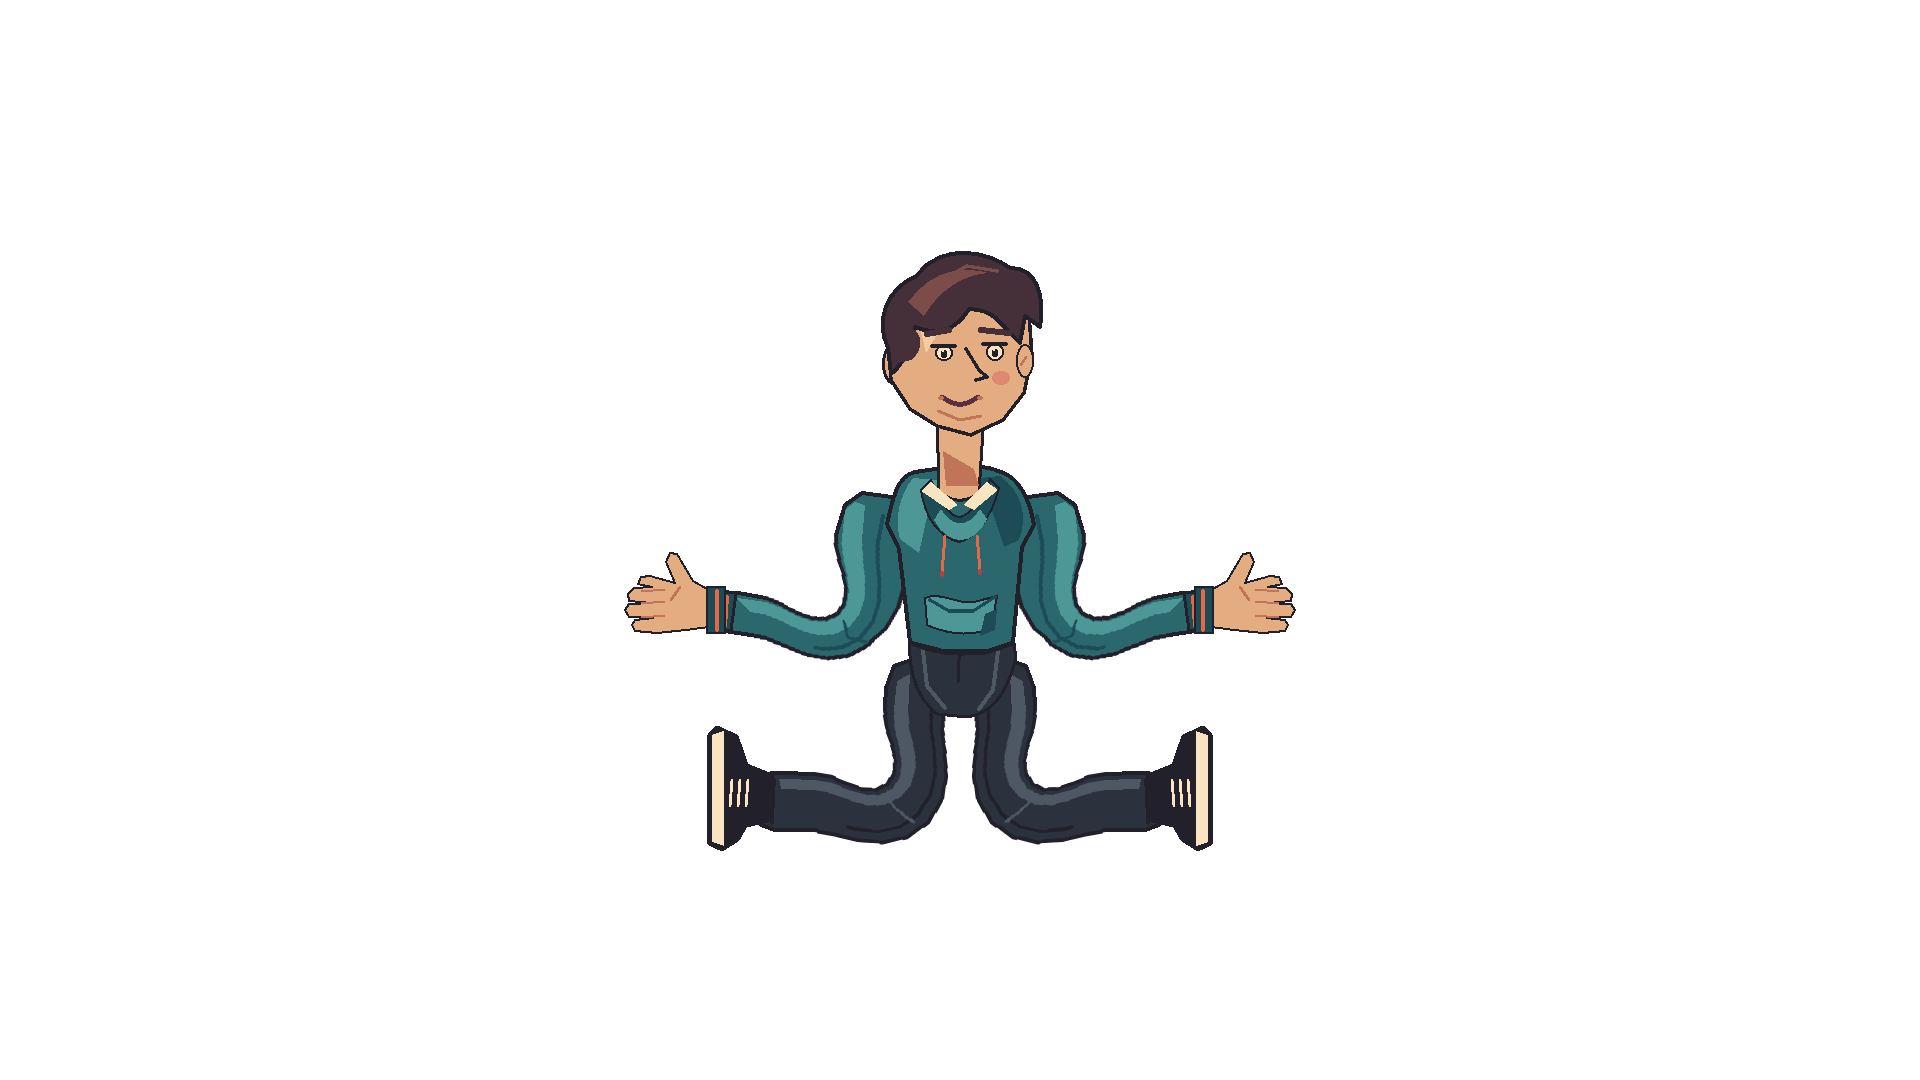
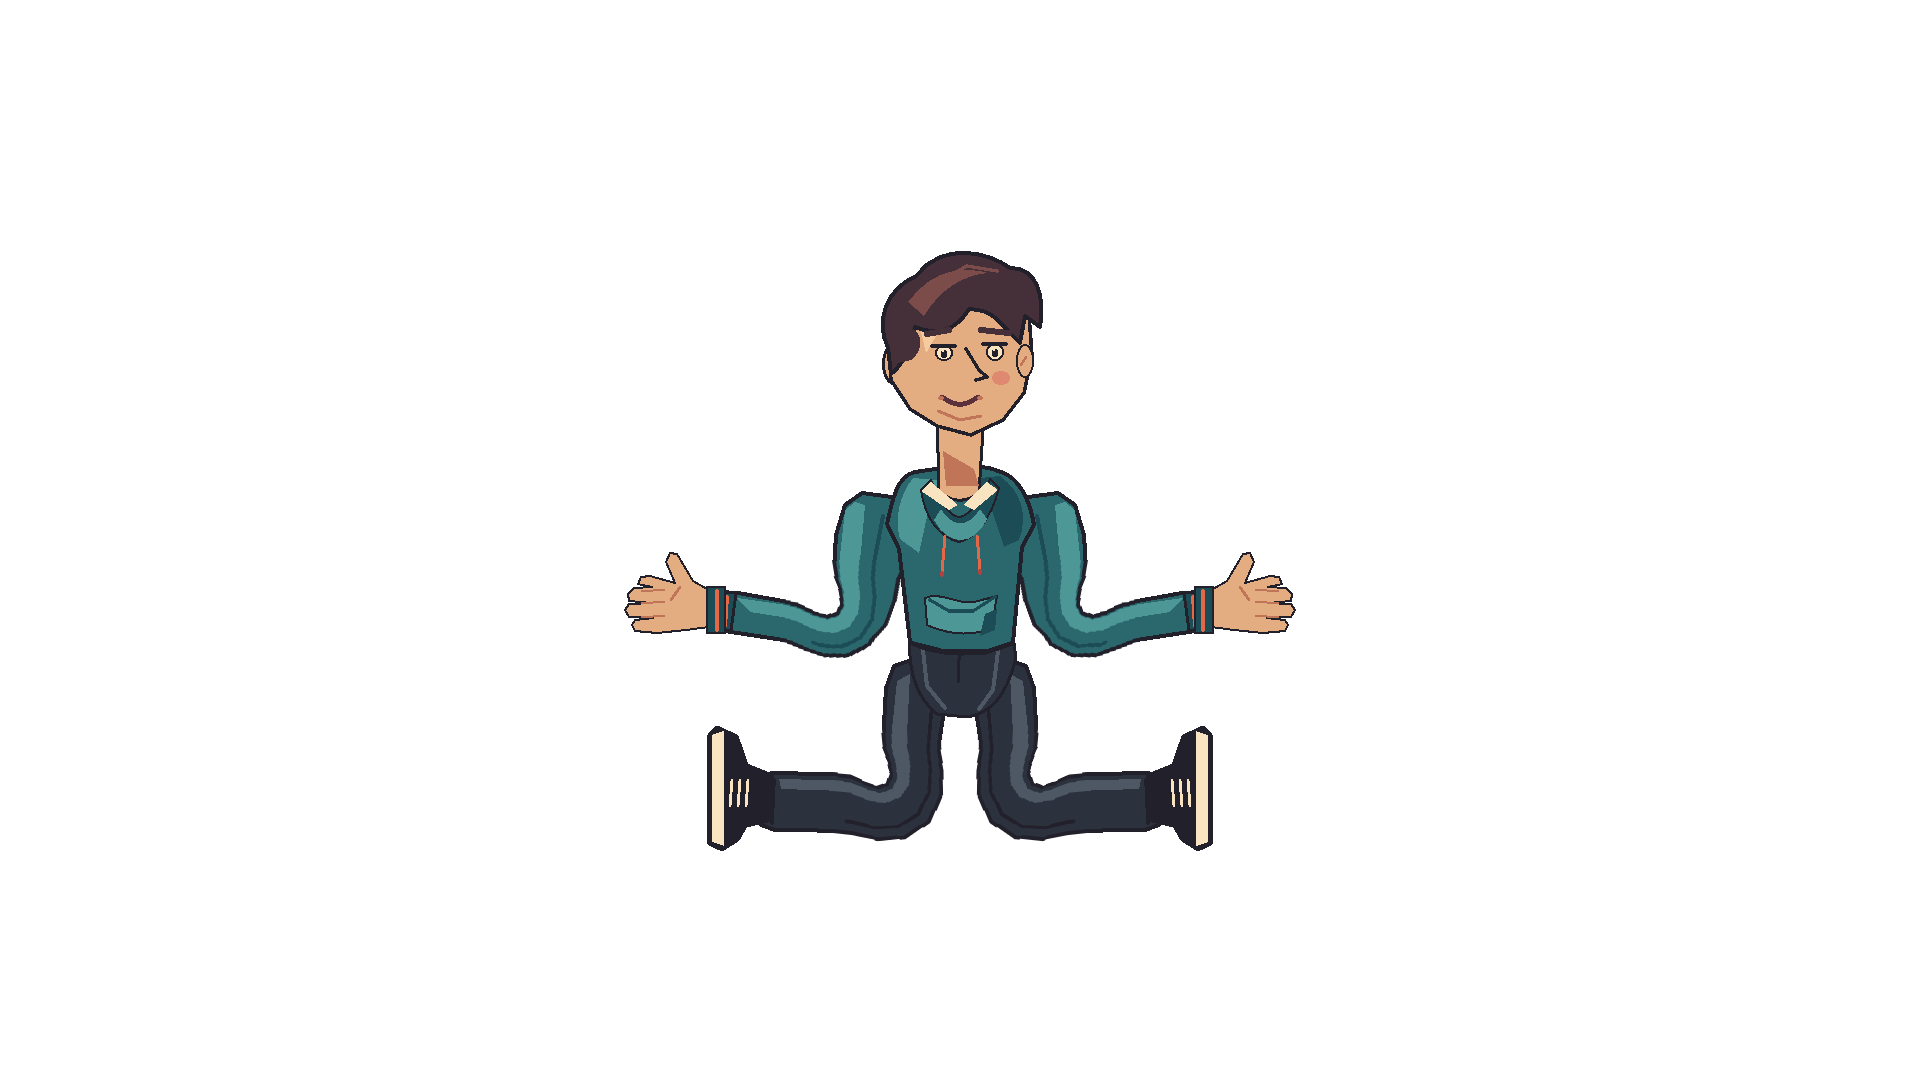
art: remove drawn joints from continuous toon limbs

Changed region(s): [[0.4375, 0.6722, 0.5625, 0.7944], [0.5312, 0.5194, 0.5938, 0.6111], [0.4062, 0.5194, 0.4688, 0.6111]]

diff --git a/tests/mesh_render_tests.cpp b/tests/mesh_render_tests.cpp
@@ -631,6 +631,14 @@ TEST_CASE("Continuous Harmony limbs bend as four single meshes and reopen identi
             tunedFrame);
     REQUIRE(bent.save("hm06-continuous-limbs.png"));
     REQUIRE(SceneRenderer::render(deserializeDocument(serializeDocument(document)), 24) == bent);
+    auto folded = document;
+    const Id foldedArm = partIds.value("arm_left");
+    const Id foldedDrawing = folded.layer(foldedArm).exposures.front().drawing;
+    setBoneElbowTransition(folded, foldedArm, foldedDrawing, 55);
+    const auto beforeRejectedBend = serializeDocument(folded);
+    REQUIRE_THROWS_AS(recordBonePose(folded, foldedArm, foldedDrawing, 36, 0, 90),
+                      std::invalid_argument);
+    REQUIRE(serializeDocument(folded) == beforeRejectedBend);
     auto extreme = document;
     for (const auto& key : keys) {
         INFO(key.role.toStdString());
@@ -639,7 +647,6 @@ TEST_CASE("Continuous Harmony limbs bend as four single meshes and reopen identi
         const Id part = partIds.value(key.role);
         const Id drawing = extreme.layer(part).exposures.front().drawing;
         const double angle = key.angle < 0 ? -90 : 90;
-        REQUIRE_NOTHROW(setBoneElbowTransition(extreme, part, drawing, 90));
         REQUIRE_NOTHROW(recordBonePose(extreme, part, drawing, 36, 0, angle));
         const Id follower = partIds.value(key.follower);
         const double dx = joints[2].toArray()[0].toDouble() - joints[1].toArray()[0].toDouble();

diff --git a/scripts/generate_harmony_continuous_limbs.py b/scripts/generate_harmony_continuous_limbs.py
@@ -52,7 +52,6 @@ def draw(role: str, center: list[int]) -> bytes:
               (850, 611), (841, 673), (832, 730), (818, 743),
               (828, 672), (835, 601)], HOODIE_LIGHT)
         line([(883, 516), (872, 573), (864, 621), (856, 668)], 2, HOODIE_DARK)
-        line([(839, 628), (854, 636), (870, 628)], 1.4, HOODIE_DARK)
         poly([(813, 744), (851, 749), (849, 763), (812, 759)], HOODIE_DARK, 3)
         line([(817, 753), (846, 755)], 2, ACCENT)
     else:
@@ -65,7 +64,6 @@ def draw(role: str, center: list[int]) -> bytes:
               (891, 865), (889, 929), (879, 931), (881, 844),
               (885, 797)], PANTS_LIGHT)
         line([(934, 683), (929, 738), (921, 796), (920, 864)], 1.8, INK)
-        line([(884, 809), (897, 815), (925, 810)], 1.3, PANTS_LIGHT)
         line([(880, 936), (923, 938)], 1.8, INK)
         line([(885, 942), (918, 943)], 1.2, CREAM)
     return encode(art.pixels)

diff --git a/docs/implementation/HM06-PROGRESS.md b/docs/implementation/HM06-PROGRESS.md
@@ -69,8 +69,12 @@ does not yet satisfy the full HM-06 interaction and artistic quality gate.
   A separate [90° stress pose](hm06-continuous-limbs-90.png) bends all four
   continuous limbs around their middle joints. The assembled silhouette stays
   connected at every integer frame from rest through frame 36, with no render
-  failure; rest pixels and reopened frame-36 pixels are identical. This is a
-  deformation stress image, not a polished animation pose. The candidate has
+  failure; rest pixels and reopened frame-36 pixels are identical. The source
+  redraw removes elbow and knee crease strokes that made one-piece limbs read
+  like separate artwork. The 65 px transition accepts this 90° pose; reducing
+  it to 55 px folds the mesh and rejects the new key without changing the
+  document. This is a deformation stress image, not a polished animation pose.
+  The candidate has
   no elbow or knee image seam; owner visual approval is still open.
 - The native `--smoke-test` drags a bone tip and curve tangent, checks
   temporary preview isolation, cancellation, undo/redo, bone and curve rest-control

diff --git a/tests/fixtures/harmony-continuous-limbs/README.md b/tests/fixtures/harmony-continuous-limbs/README.md
@@ -22,7 +22,9 @@ and checks rest pixels and reopened frame-24 output. The render test also
 checks that every nonwhite character pixel belongs to one connected silhouette
 in both rest and bent frames. A separate 90° stress pose checks the connected
 assembled silhouette at every integer frame from rest to frame 36, rest pixel
-stability and identical reopened output. This is a representative rig-quality
+stability and identical reopened output. The source art omits drawn creases at
+the elbow and knee; a too-tight 55 px transition must reject a folding 90° key
+without modifying the document. This is a representative rig-quality
 check, not final owner approval or a complete production shot.
 
 ![Four bent continuous limbs](../../../docs/implementation/hm06-continuous-limbs.png)
